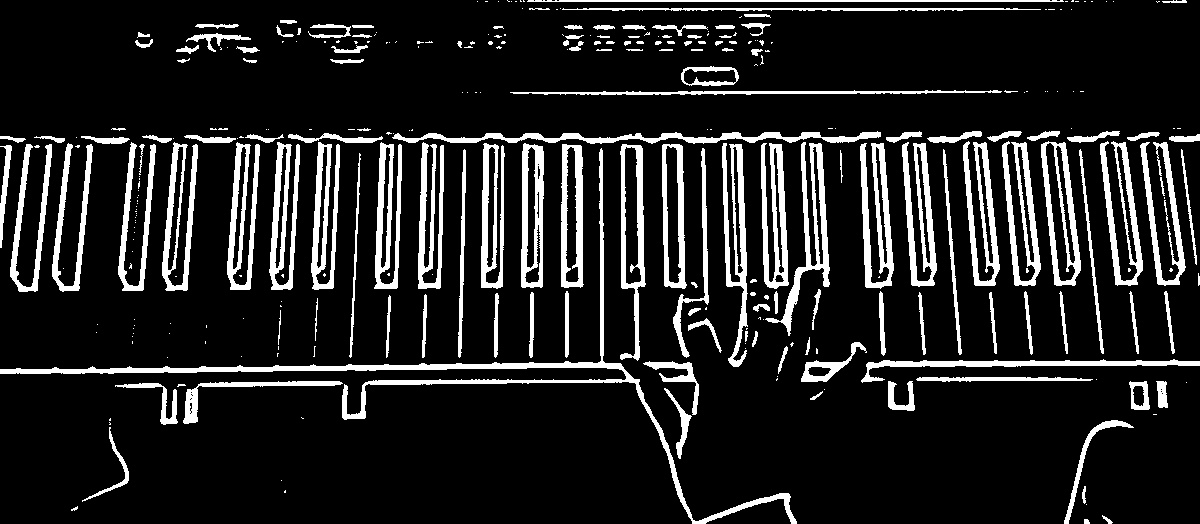
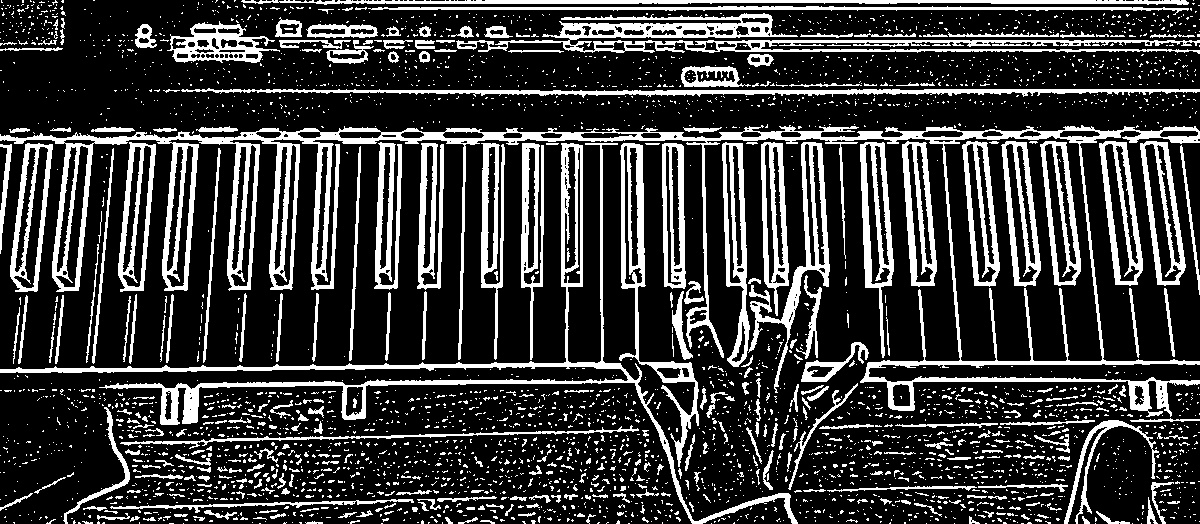
doing homework

diff --git a/Homework/MiTermProject_20240501/main.py b/Homework/MiTermProject_20240501/main.py
@@ -12,9 +12,9 @@
 
 import cv2
 import numpy as np
+import matplotlib.pyplot as plt
 
 image = cv2.imread('./Data/C_Key.jpg')
-
 new_width = 1200
 ratio = new_width / image.shape[1]
 new_height = int(image.shape[0] * ratio)
@@ -23,7 +23,7 @@ new_height = int(image.shape[0] * ratio)
 resized_image = cv2.resize(image, (new_width, new_height), interpolation=cv2.INTER_AREA)
 
 # 노이즈 제거
-blurred_image = cv2.GaussianBlur(resized_image, (15, 15), 2)
+blurred_image = cv2.GaussianBlur(resized_image, (0, 0), 1)
 # cv2.imshow("blurred_image", blurred_image)
 # cv2.waitKey(0)
 # cv2.destroyAllWindows()
@@ -34,19 +34,38 @@ gray_image = cv2.cvtColor(blurred_image, cv2.COLOR_BGR2GRAY)
 # cv2.waitKey(0)
 # cv2.destroyAllWindows()
 
+# ==================================================================
 # 이진화
-adaptive_thresh = cv2.adaptiveThreshold(gray_image, 255, cv2.ADAPTIVE_THRESH_GAUSSIAN_C, cv2.THRESH_BINARY_INV, 13, 5)
-cv2.imwrite('./Data/C_Key_adaptive_thresh.jpg', adaptive_thresh)
-cv2.imshow("adaptive_thresh", adaptive_thresh)
-cv2.waitKey(0)
-cv2.destroyAllWindows()
+# blockSizes = [11, 21, 31]
+# Cs = [5, 8, 11]
+#
+# fig, axes = plt.subplots(3, 3, figsize=(12, 12))
+#
+# for i, blockSize in enumerate(blockSizes):
+#     for j, C in enumerate(Cs):
+#         adaptive_thresh = cv2.adaptiveThreshold(gray_image, 255, cv2.ADAPTIVE_THRESH_GAUSSIAN_C, cv2.THRESH_BINARY_INV,
+#                                                 blockSize, C)
+#         ax = axes[i, j]
+#         ax.imshow(adaptive_thresh, cmap='gray')
+#         ax.set_title(f'BlockSize: {blockSize}, C: {C}')
+#         ax.axis('off')
+#
+# plt.show()
+#
+adaptive_thresh = cv2.adaptiveThreshold(gray_image, 255, cv2.ADAPTIVE_THRESH_GAUSSIAN_C, cv2.THRESH_BINARY_INV, 11, 2)
+# cv2.imwrite('./Data/C_Key_adaptive_thresh.jpg', adaptive_thresh)
+# cv2.imshow("adaptive_thresh", adaptive_thresh)
+# cv2.waitKey(0)
+# cv2.destroyAllWindows()
 
+# ==================================================================
+#
+#
 # kernel = np.ones((3, 3), np.uint8)
 # # 열림 연산 적용
-# opening = cv2.morphologyEx(adaptive_thresh, cv2.MORPH_OPEN, kernel, iterations=2)
+# opening = cv2.morphologyEx(adaptive_thresh, cv2.MORPH_OPEN, kernel, iterations=1)
 # # 닫힘 연산 적용
-# closing = cv2.morphologyEx(adaptive_thresh, cv2.MORPH_CLOSE, kernel, iterations=2)
-
+# closing = cv2.morphologyEx(adaptive_thresh, cv2.MORPH_CLOSE, kernel, iterations=1)
 #
 # edges = cv2.Canny(opening, 110, 250)
 #
@@ -55,13 +74,37 @@ cv2.destroyAllWindows()
 # cv2.waitKey(0)
 # cv2.destroyAllWindows()
 
+
+# 윤곽 검출
+_, contours, _ = cv2.findContours(adaptive_thresh, cv2.RETR_EXTERNAL, cv2.CHAIN_APPROX_SIMPLE)
+
+# 건반 윤곽 추출
+key_contours = []
+for contour in contours:
+    x, y, w, h = cv2.boundingRect(contour)
+    if w > 50 and h > 50:
+        key_contours.append(contour)
+
+# 건반 윤곽을 사용하여 마스크 생성
+mask = np.zeros_like(gray_image)
+cv2.drawContours(mask, key_contours, -1, 255, thickness=cv2.FILLED)
+
+# 마스크를 적용하여 건반 영역 추출
+key_region = cv2.bitwise_and(image, image, mask=mask)
+
+# 결과 표시
+cv2.imshow('Piano Keys', key_region)
+cv2.waitKey(0)
+cv2.destroyAllWindows()
+
+
 # _, contours, hierarchy = cv2.findContours(opening, cv2.RETR_EXTERNAL, cv2.CHAIN_APPROX_SIMPLE)
-
-# 윤곽선을 이미지에 그립니다. -1은 모든 윤곽을 그린다는 의미입니다.
-# 녹색으로 윤곽선을 그리고 두께는 2로 설정합니다.
+#
+# # 윤곽선을 이미지에 그립니다. -1은 모든 윤곽을 그린다는 의미입니다.
+# # 녹색으로 윤곽선을 그리고 두께는 2로 설정합니다.
 # contour_image = cv2.drawContours(resized_image.copy(), contours, -1, (0, 255, 0), 2)
-
-# 결과 이미지를 화면에 표시합니다
+#
+# # 결과 이미지를 화면에 표시합니다
 # cv2.imshow('Contours', contour_image)
 # cv2.waitKey(0)
 # cv2.destroyAllWindows()

diff --git a/Homework/MiTermProject_20240501/remove_shadow.py b/Homework/MiTermProject_20240501/remove_shadow.py
@@ -1,0 +1,40 @@
+import cv2
+import numpy as np
+
+# 이미지를 로드합니다.
+image = cv2.imread('./Data/C_Key_resized.jpg')
+
+# 이미지 사이즈 해상도에 맞게 조정 필요
+new_width = 1200
+ratio = new_width / image.shape[1]
+new_height = int(image.shape[0] * ratio)
+
+# 이미지 크기 조정
+resized_image = cv2.resize(image, (new_width, new_height), interpolation=cv2.INTER_AREA)
+
+# HSV 색공간으로 변환합니다.
+hsv_image = cv2.cvtColor(resized_image, cv2.COLOR_BGR2HSV)
+
+# HSV 채널 분리합니다.
+h, s, v = cv2.split(hsv_image)
+
+# 밝기 채널을 조정합니다.
+# 이진화를 사용하여 그림자가 예상되는 영역을 분리할 수 있습니다.
+_, low_sat = cv2.threshold(s, 40, 255, cv2.THRESH_BINARY_INV)
+_, low_val = cv2.threshold(v, 50, 255, cv2.THRESH_BINARY)
+
+shadow_mask = cv2.bitwise_and(low_val, low_val, mask=low_sat)
+
+# 그림자 영역의 밝기를 증가시킵니다.
+v_adjusted = cv2.add(v, shadow_mask)
+
+# HSV 이미지 재조합 및 BGR로 변환
+final_hsv = cv2.merge([h, s, v_adjusted])
+result_image = cv2.cvtColor(final_hsv, cv2.COLOR_HSV2BGR)
+
+# 결과를 표시합니다.
+# cv2.imshow('Original Image', resized_image)
+# cv2.imshow('Shadow Mask', shadow_mask)
+cv2.imshow('Result Image', result_image)
+cv2.waitKey(0)
+cv2.destroyAllWindows()

diff --git a/Homework/MiTermProject_20240501/main2.py b/Homework/MiTermProject_20240501/main2.py
@@ -1,0 +1,40 @@
+import cv2
+import numpy as np
+
+# 이미지 로드 및 그레이스케일 변환
+image = cv2.imread('./Data/C_Key_resized.jpg')
+
+# 이미지 사이즈 해상도에 맞게 조정 필요
+new_width = 1200
+ratio = new_width / image.shape[1]
+new_height = int(image.shape[0] * ratio)
+
+# 이미지 크기 조정
+resized_image = cv2.resize(image, (new_width, new_height), interpolation=cv2.INTER_AREA)
+
+gray = cv2.cvtColor(resized_image, cv2.COLOR_BGR2GRAY)
+
+# 이진화 (이미 이진화 된 이미지가 있다면 이 단계는 생략)
+_, thresh = cv2.threshold(gray, 150, 255, cv2.THRESH_BINARY_INV)
+
+# 윤곽 검출
+_, contours, hierarchy = cv2.findContours(thresh, cv2.RETR_EXTERNAL, cv2.CHAIN_APPROX_SIMPLE)
+
+# 건반 윤곽 추출
+key_contours = []
+for contour in contours:
+    x, y, w, h = cv2.boundingRect(contour)
+    if w > 80 and h > 80:  # 건반의 특성에 맞게 조정
+        key_contours.append(contour)
+
+# 건반 윤곽을 사용하여 마스크 생성
+mask = np.zeros_like(gray)
+cv2.drawContours(mask, key_contours, -1, (255), thickness=cv2.FILLED)
+
+# 마스크를 적용하여 건반 영역 추출
+key_region = cv2.bitwise_and(resized_image, resized_image, mask=mask)
+
+# 결과 표시
+cv2.imshow('Piano Keys', key_region)
+cv2.waitKey(0)
+cv2.destroyAllWindows()

diff --git a/Homework/MiTermProject_20240501/test.py b/Homework/MiTermProject_20240501/test.py
@@ -1,0 +1,18 @@
+import cv2
+import numpy as np
+import matplotlib.pyplot as plt
+
+image = cv2.imread('./Data/C_Key.jpg')
+
+# 이미지 사이즈 해상도에 맞게 조정 필요
+new_width = 1200
+ratio = new_width / image.shape[1]
+new_height = int(image.shape[0] * ratio)
+
+# 이미지 크기 조정
+resized_image = cv2.resize(image, (new_width, new_height), interpolation=cv2.INTER_AREA)
+
+gray_image = cv2.cvtColor(resized_image, cv2.COLOR_BGR2GRAY)
+cv2.imshow("gray_image", gray_image)
+cv2.waitKey(0)
+cv2.destroyAllWindows()
